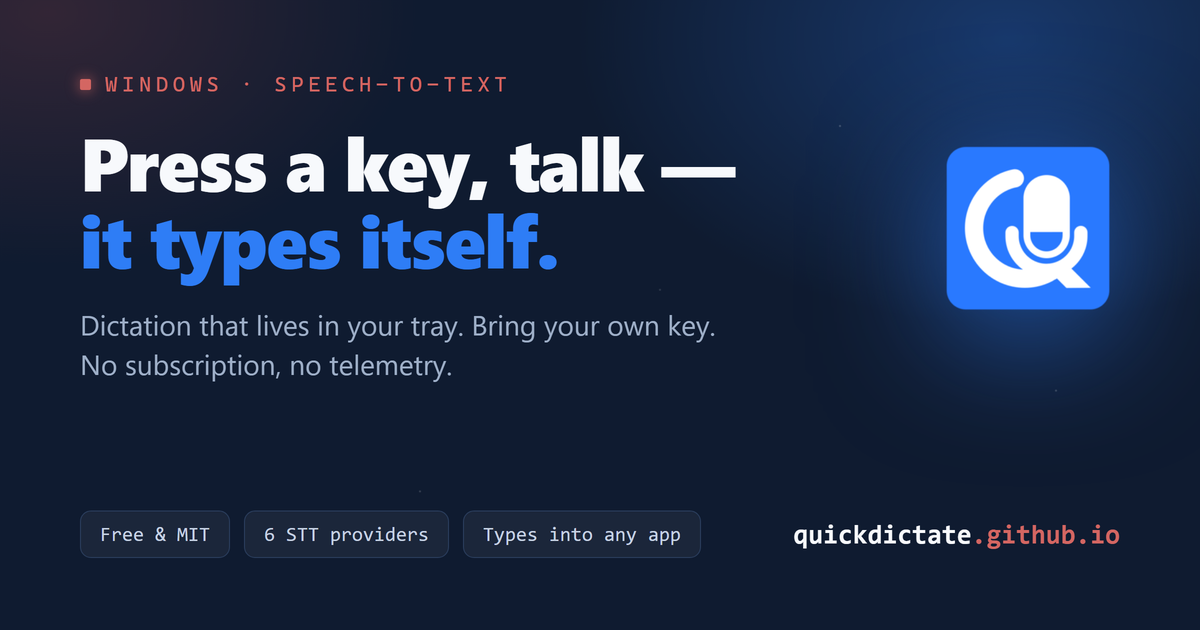
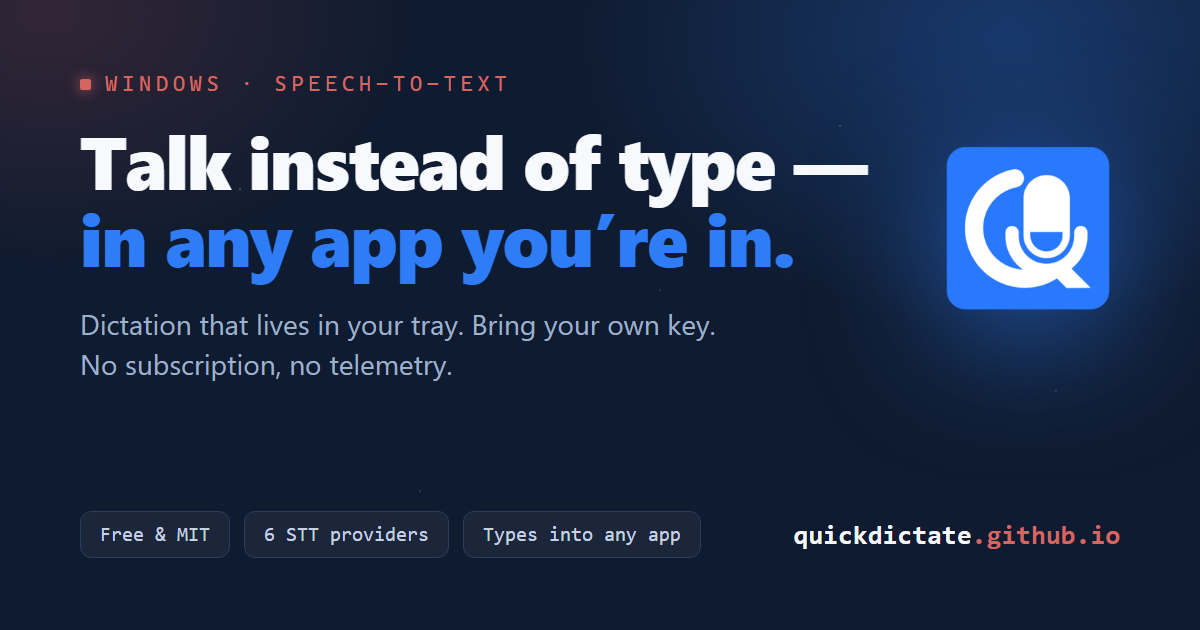
Reword share card + social title to a human tagline
The card headline and og/twitter titles said "Press a key, talk — it types
itself", which read as gimmicky. Reword to "Talk instead of type — in any app
you're in." Re-rendered assets/og-image.png from tools/og-card.html (headless
Chrome, 1200×630). Page hero copy is unchanged.

diff --git a/index.html b/index.html
@@ -9,14 +9,14 @@
 <meta property="og:type" content="website">
 <meta property="og:site_name" content="QuickDictate">
 <meta property="og:url" content="https://quickdictate.github.io/">
-<meta property="og:title" content="QuickDictate — press a key, talk, it types itself">
+<meta property="og:title" content="QuickDictate — talk instead of type, in any app">
 <meta property="og:description" content="A Windows tray app for speech-to-text. Bring your own API key — no subscription, no telemetry. Free & MIT-licensed.">
 <meta property="og:image" content="https://quickdictate.github.io/assets/og-image.png">
 <meta property="og:image:width" content="1200">
 <meta property="og:image:height" content="630">
 <meta property="og:image:alt" content="QuickDictate — speech-to-text that lives in your Windows tray">
 <meta name="twitter:card" content="summary_large_image">
-<meta name="twitter:title" content="QuickDictate — press a key, talk, it types itself">
+<meta name="twitter:title" content="QuickDictate — talk instead of type, in any app">
 <meta name="twitter:description" content="A Windows tray app for speech-to-text. Bring your own API key — no subscription, no telemetry. Free & MIT-licensed.">
 <meta name="twitter:image" content="https://quickdictate.github.io/assets/og-image.png">
 <style>

diff --git a/tools/og-card.html b/tools/og-card.html
@@ -52,7 +52,7 @@
     <div class="top">
       <div>
         <div class="eyebrow">Windows · Speech-to-text</div>
-        <h1>Press a key, talk —<br><span class="accent">it types itself.</span></h1>
+        <h1>Talk instead of type —<br><span class="accent">in any app you’re in.</span></h1>
         <div class="sub">Dictation that lives in your tray. Bring your own key. No subscription, no telemetry.</div>
       </div>
       <div class="icon-wrap"><img src="../assets/icon-256.png" alt=""></div>
